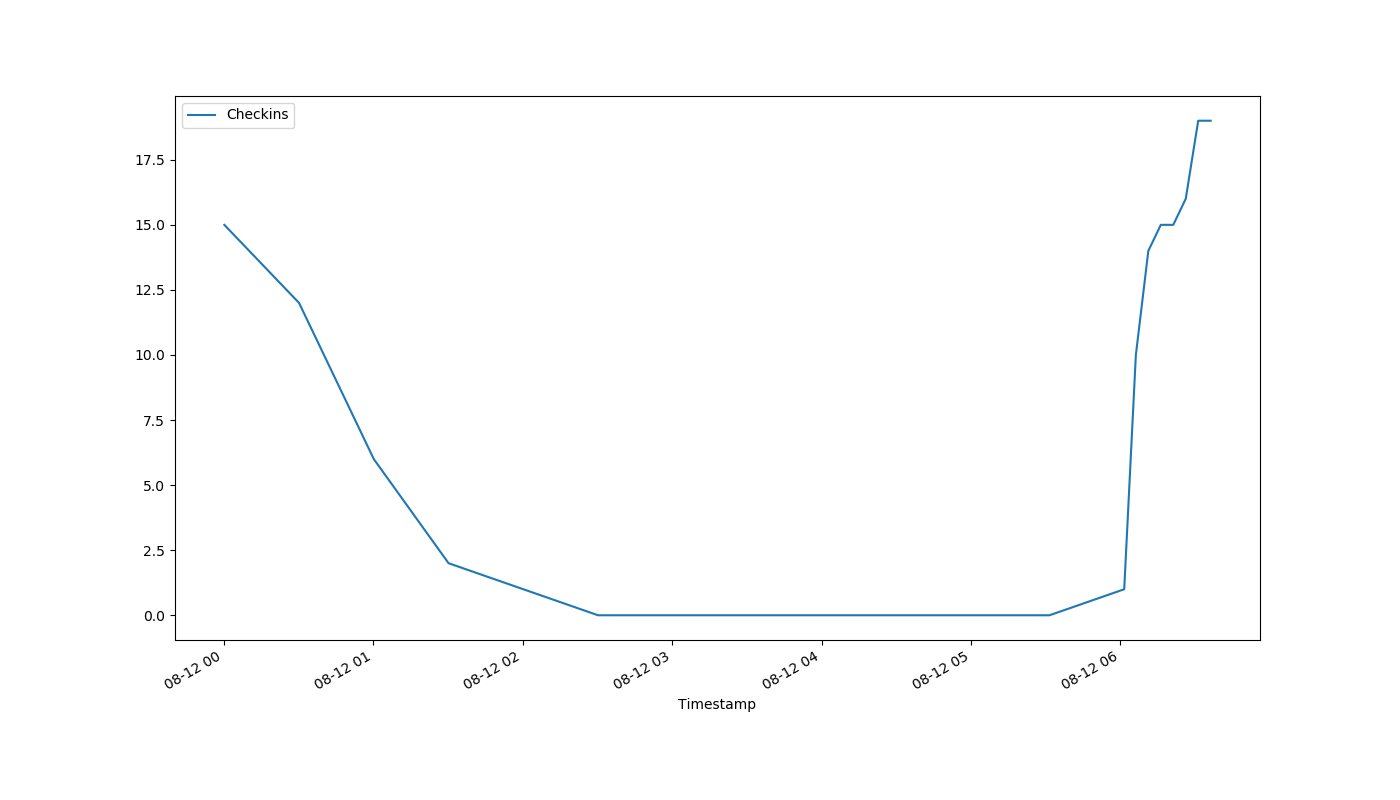
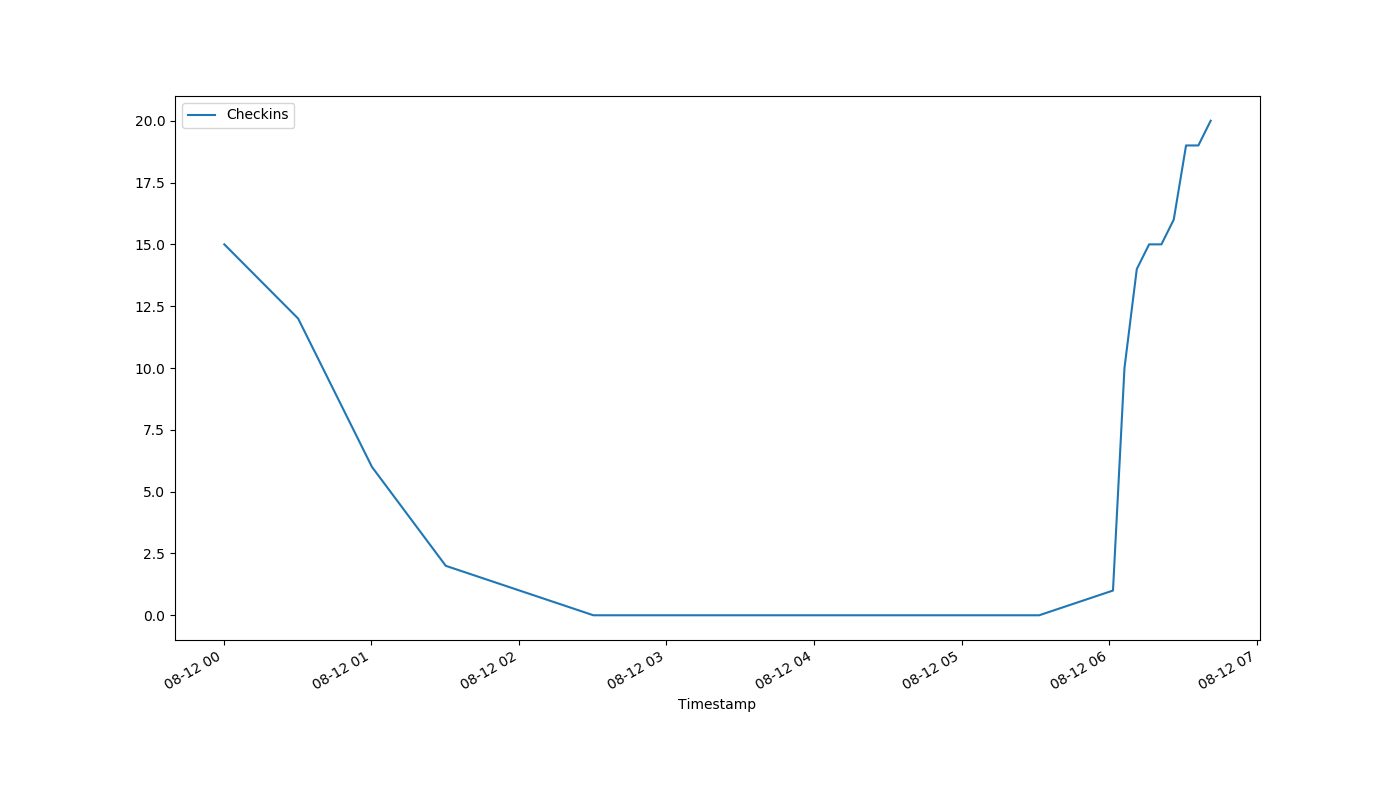
auto-Aug-12-06:42:52

diff --git a/index.html b/index.html
@@ -1,1 +1,1 @@
-<!DOCTYPE html><html><head><meta http-equiv="refresh" content="30"><link rel='stylesheet' href='holmcurrent.css'></head><body><p id='count'>19</p><div id='graph-wrap'><img id='graph' src='holmgraph-Aug-12.png'></div><p id='updated'>Last updated 06:37:12 / 06:36:12</p></body></html>
+<!DOCTYPE html><html><head><meta http-equiv="refresh" content="30"><link rel='stylesheet' href='holmcurrent.css'></head><body><p id='count'>20</p><div id='graph-wrap'><img id='graph' src='holmgraph-Aug-12.png'></div><p id='updated'>Last updated 06:42:12 / 06:41:13</p></body></html>
